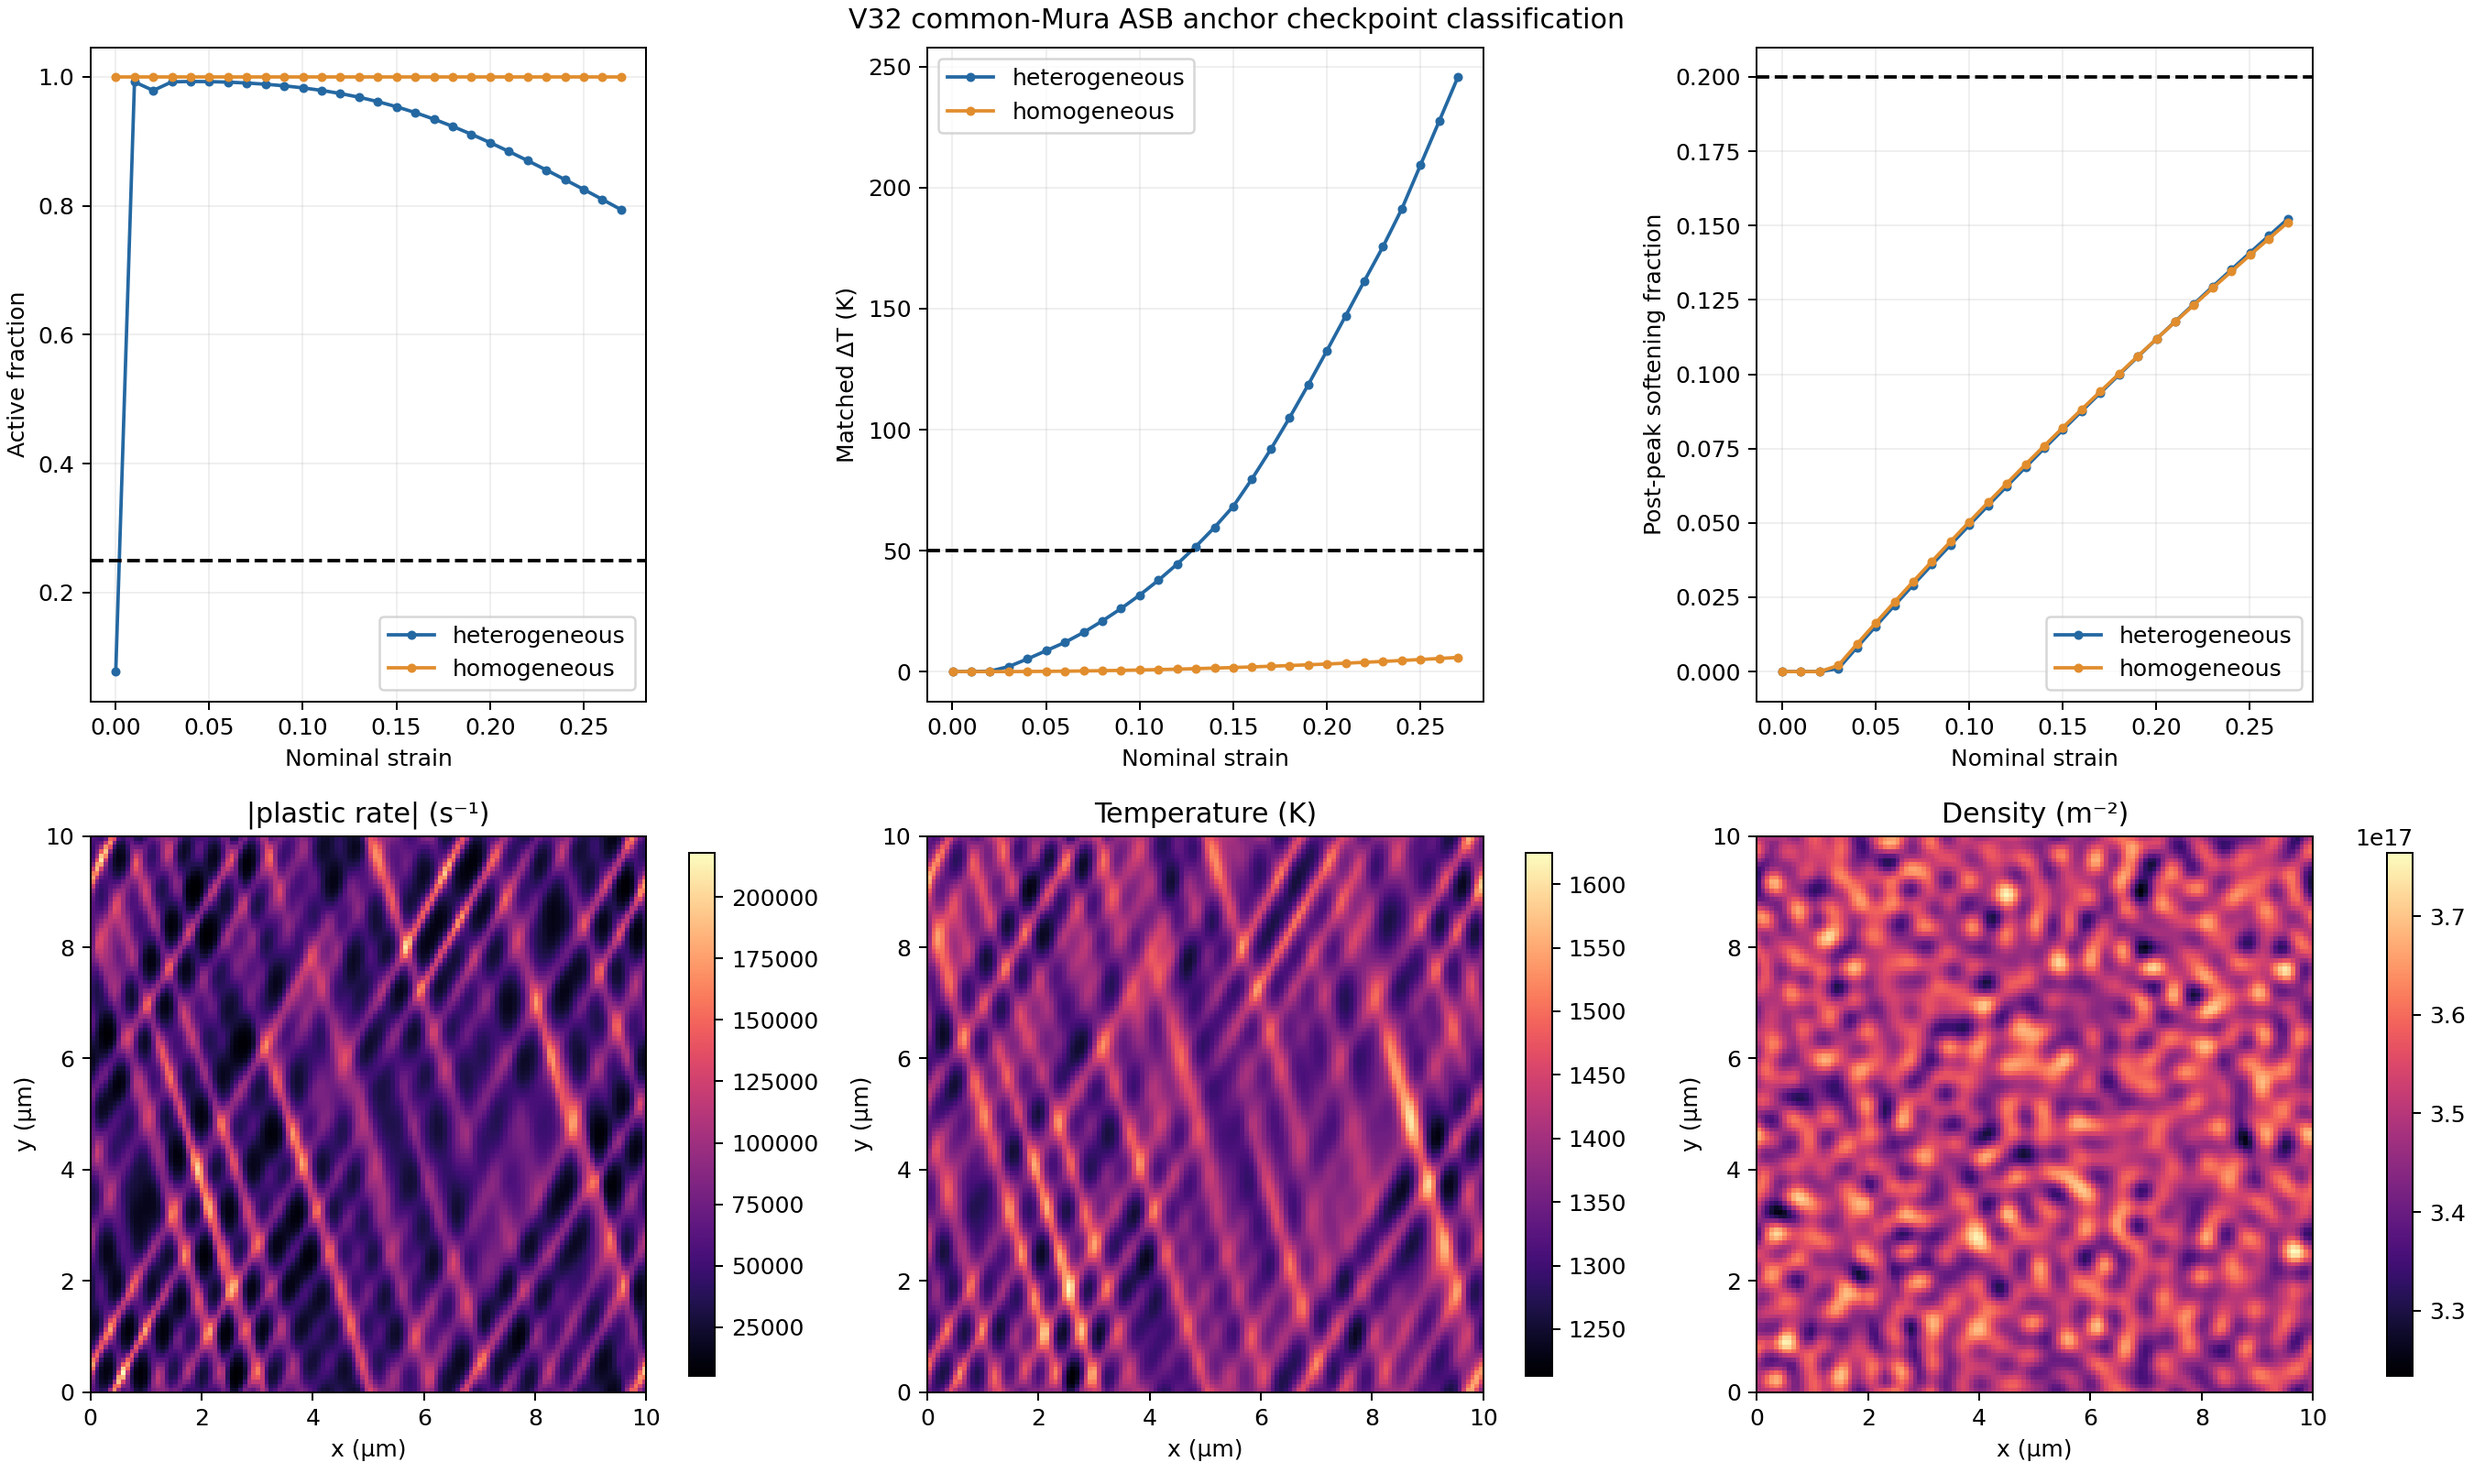
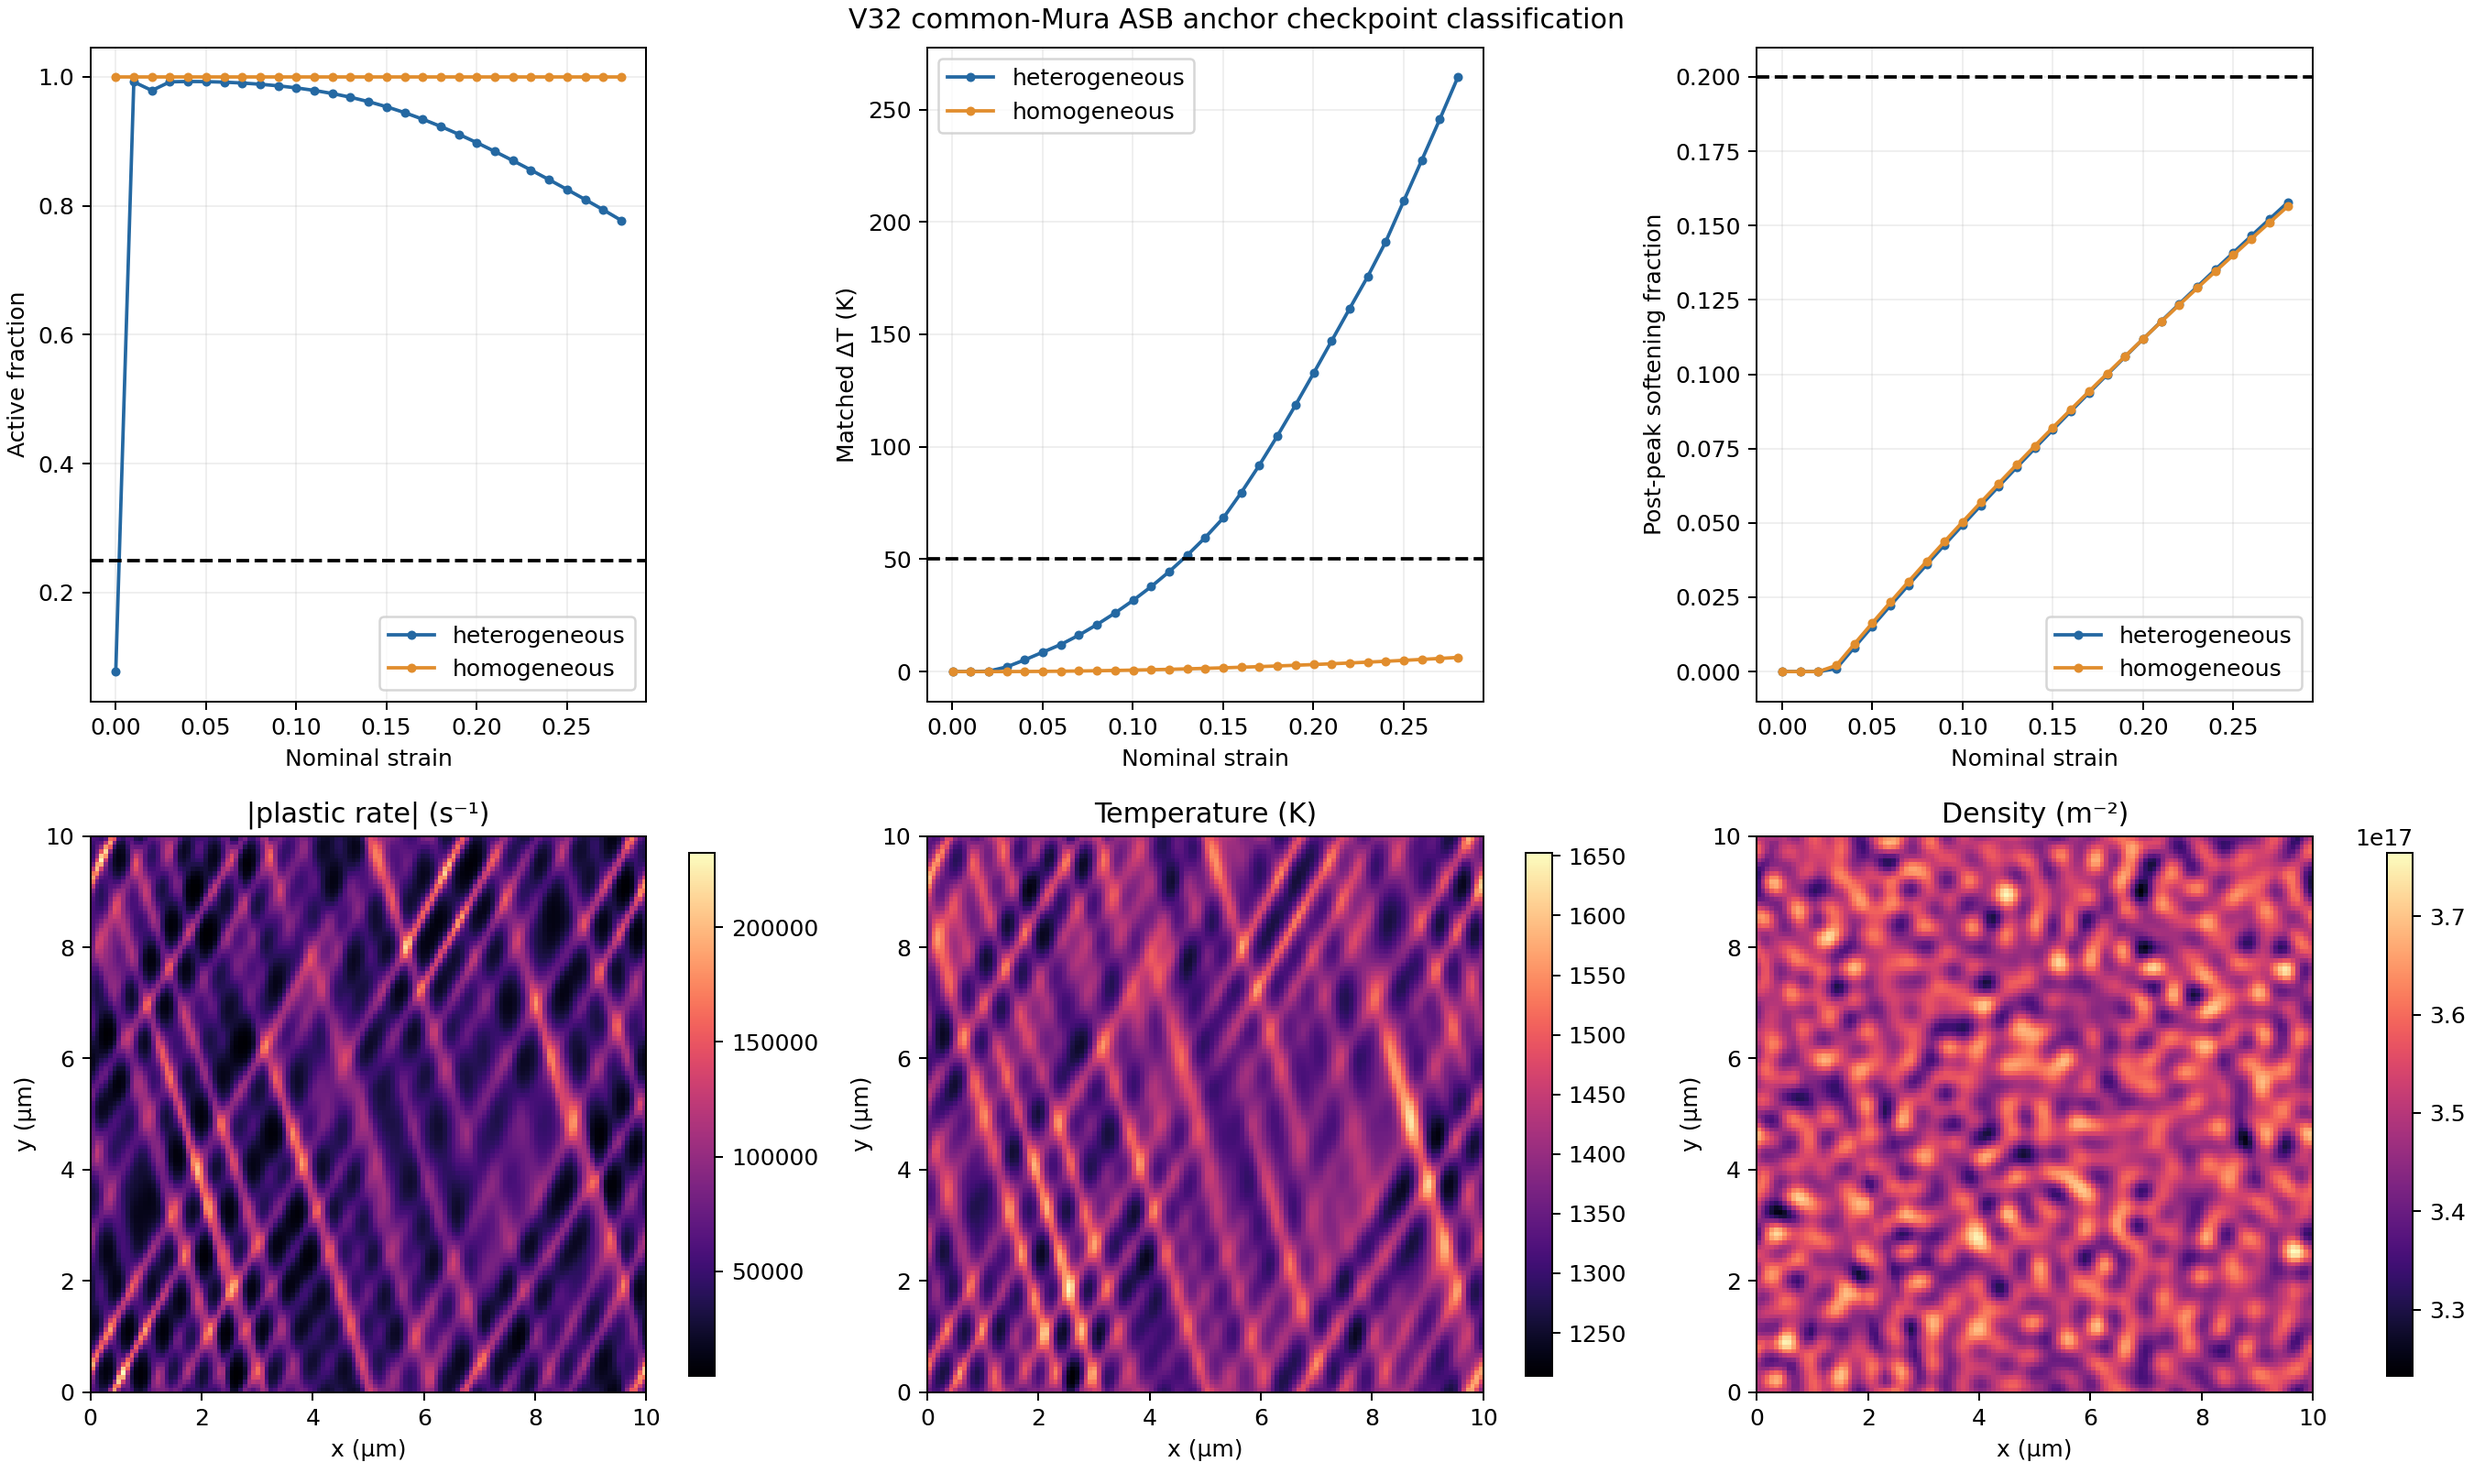
Classify terminal ASB anchor validity stops

diff --git a/full_model/analysis/postprocess_v32_asb_anchor.py b/full_model/analysis/postprocess_v32_asb_anchor.py
@@ -28,6 +28,36 @@ PAIR_NAMES = {
 }
 
 
+def run_terminal_status(directory: Path) -> dict[str, object]:
+    """Read the runner-owned terminal record without consulting fragile PIDs."""
+    record_path = directory/"v31_anchor_run_record.json"
+    if not record_path.exists():
+        return {"terminal": False, "successful": False, "reason": "RUNNING"}
+    try:
+        record = json.loads(record_path.read_text())
+    except (OSError, ValueError):
+        return {"terminal": False, "successful": False,
+                "reason": "TERMINAL_RECORD_NOT_READABLE"}
+    exit_code = int(record.get("exit_code", -1))
+    logs = sorted(directory.glob("run-from-*.log"))
+    tail = ""
+    if logs:
+        try:
+            tail = logs[-1].read_text(errors="replace")[-20000:]
+        except OSError:
+            pass
+    if "THERMAL VALIDITY STOP" in tail:
+        reason = "THERMAL_MODEL_VALIDITY_BOUNDARY"
+    elif "MECHANICAL VALIDITY STOP" in tail:
+        reason = "MECHANICAL_MODEL_VALIDITY_BOUNDARY"
+    elif exit_code == 0:
+        reason = "REQUESTED_HORIZON_OR_CLEAN_DRIVER_STOP"
+    else:
+        reason = "DRIVER_FAILURE"
+    return {"terminal": True, "successful": exit_code == 0,
+            "exit_code": exit_code, "reason": reason, "record": record}
+
+
 def step_from_path(path: Path) -> int:
     return int(re.search(r"(\d+)$", path.stem).group(1))
 
@@ -250,7 +280,7 @@ def main():
     parser.add_argument("--figure", type=Path)
     parser.add_argument("--target-steps", type=int, default=5000)
     args = parser.parse_args()
-    pairs = {}; invariants = {}; fields = {}
+    pairs = {}; invariants = {}; fields = {}; runs = {}
     for name, case_names in PAIR_NAMES.items():
         history, support, steps, ledger, parameters, interface, final = pair_history(
             args.root, *case_names)
@@ -261,14 +291,26 @@ def main():
         pairs[name]["strain_increment"] = strain_increment
         invariants[name] = ledger[steps[-1]]
         fields[name] = final | {"domain_length_m": float(parameters["L_phys"])}
+        runs[name] = {
+            "adiabatic": run_terminal_status(args.root/case_names[0]),
+            "control": run_terminal_status(args.root/case_names[1]),
+        }
     all_complete = all(pair["complete"] for pair in pairs.values())
+    all_terminal = all(run["terminal"] for pair in runs.values()
+                       for run in pair.values())
+    all_successful = all(run["successful"] for pair in runs.values()
+                         for run in pair.values())
+    validity_limited = any("VALIDITY_BOUNDARY" in str(run["reason"])
+                           for pair in runs.values() for run in pair.values())
     all_invariants = all(item["passed"] for item in invariants.values())
-    if not all_invariants:
+    if not all_invariants or (all_terminal and not all_successful):
         classification = "HARD_INVALID_ASB_ANCHOR"
-    elif not all_complete:
+    elif not all_terminal:
         classification = "RUNNING_LONG_ASB_ANCHOR"
     elif pairs["heterogeneous"]["raw_conjunction"]["qualifying_snapshot_count"]:
         classification = "ASB_LOCALIZATION_CANDIDATE_REQUIRES_REFINEMENT"
+    elif validity_limited:
+        classification = "ASB_ANCHOR_VALIDITY_LIMITED_MECHANISTIC_NEGATIVE"
     else:
         classification = "ASB_ANCHOR_MECHANISTIC_NEGATIVE"
     result = {
@@ -276,12 +318,16 @@ def main():
         "generated_utc": datetime.now(timezone.utc).isoformat(),
         "source_commit": "c643afe00b4ea6f7f30e021675d7648ecdb6422c",
         "root": str(args.root), "criteria": asdict(CRITERIA),
-        "pairs": pairs, "latest_invariants": invariants,
+        "pairs": pairs, "runs": runs, "latest_invariants": invariants,
         "all_cases_complete": all_complete,
+        "all_cases_terminal": all_terminal,
+        "all_cases_successful": all_successful,
+        "validity_limited": validity_limited,
         "all_invariants_passed": all_invariants,
         "classification": classification,
         "adaptive_screen_authorized": bool(
-            all_complete and all_invariants and classification != "HARD_INVALID_ASB_ANCHOR"),
+            all_terminal and all_successful and all_invariants
+            and classification != "HARD_INVALID_ASB_ANCHOR"),
         "strict_asb_claimed": False,
     }
     args.output.parent.mkdir(parents=True, exist_ok=True)

diff --git a/tests/test_v32_asb_anchor_postprocess.py b/tests/test_v32_asb_anchor_postprocess.py
@@ -4,6 +4,7 @@ import pytest
 from full_model.analysis.postprocess_v32_asb_anchor import (
     effective_support,
     raw_conjunction,
+    run_terminal_status,
     summarize_pair,
 )
 from full_model.production.asb_classifier import ASBSnapshot
@@ -52,3 +53,13 @@ def test_incomplete_anchor_is_not_misclassified_as_mechanistic_negative():
     assert result["complete"] is False
     assert result["diagnosis"] == "ANCHOR_INCOMPLETE_UNDEREXPOSURE_NOT_EXCLUDED"
     assert result["latest_nominal_strain"] == 0.2701
+
+
+def test_terminal_status_recognizes_physical_validity_stop(tmp_path):
+    (tmp_path/"v31_anchor_run_record.json").write_text('{"exit_code": 0}\n')
+    (tmp_path/"run-from-000000.log").write_text(
+        "THERMAL VALIDITY STOP at step 3123: Tmax beyond declared domain\n")
+    status = run_terminal_status(tmp_path)
+    assert status["terminal"] is True
+    assert status["successful"] is True
+    assert status["reason"] == "THERMAL_MODEL_VALIDITY_BOUNDARY"
